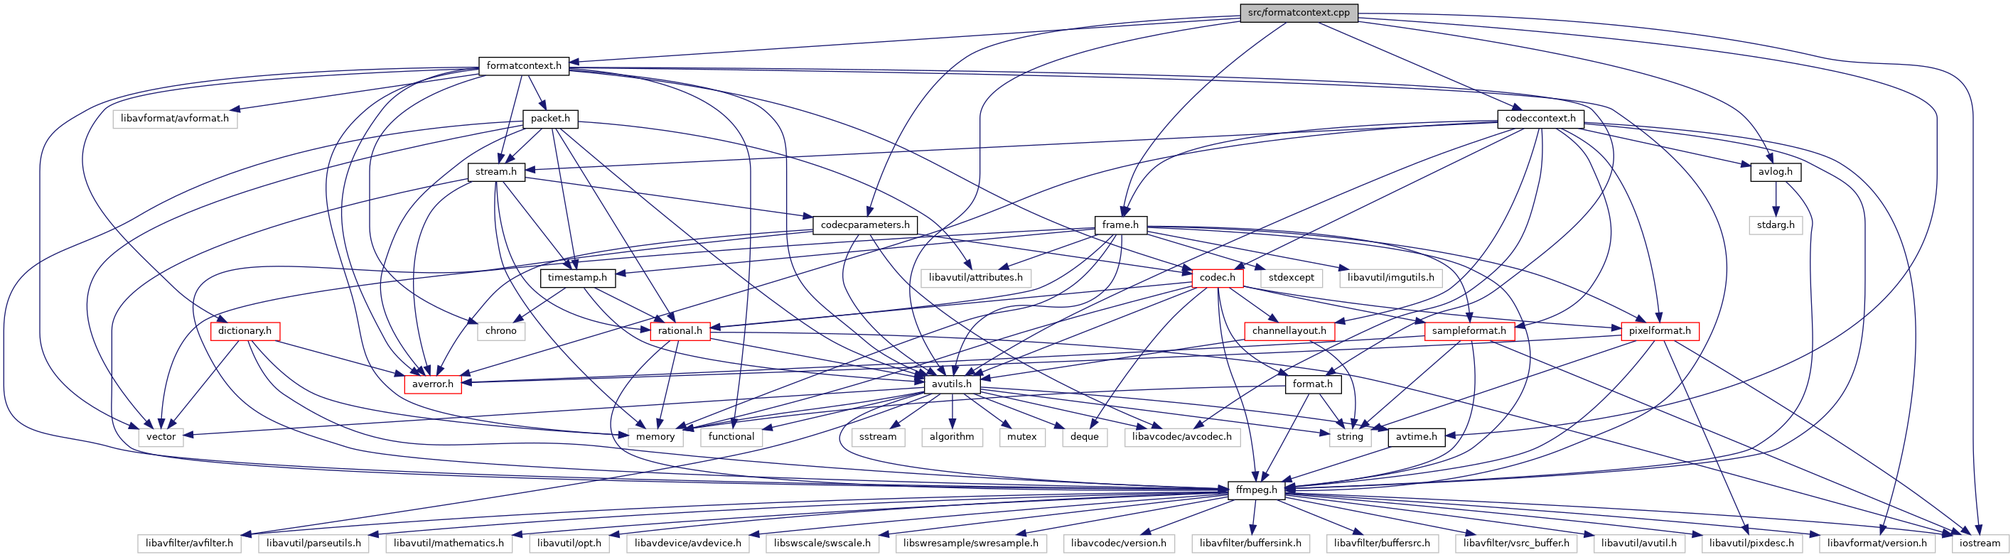
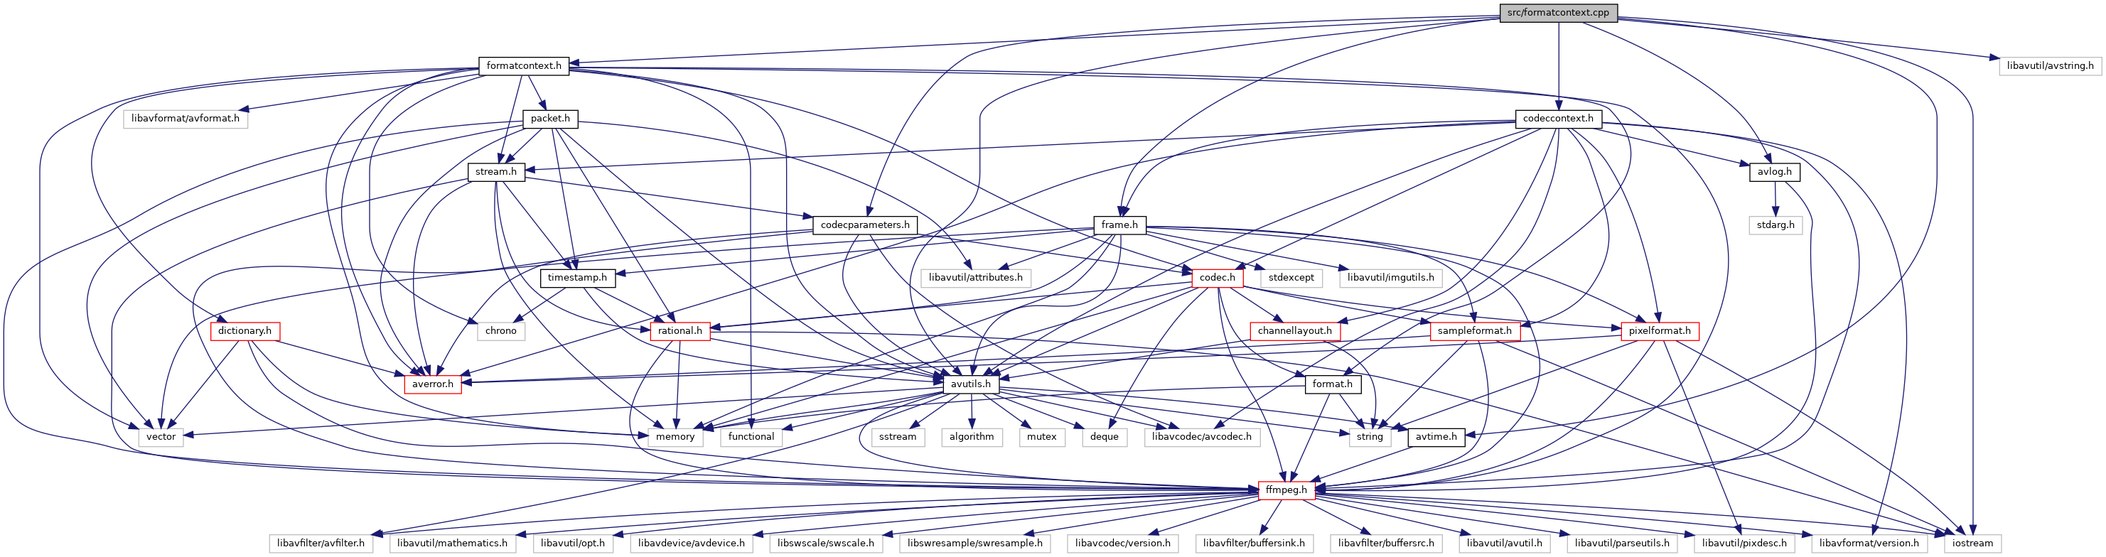
Update gh-pages to output generated at da338e3

diff --git a/formatcontext_8h_source.html b/formatcontext_8h_source.html
@@ -310,45 +310,45 @@ $(function() {
 <div class="ttc" id="aclassav_1_1DictionaryArray_html"><div class="ttname"><a href="classav_1_1DictionaryArray.html">av::DictionaryArray</a></div><div class="ttdoc">Array of Dictinaries wrapper.</div><div class="ttdef"><b>Definition:</b> dictionary.h:589</div></div>
 <div class="ttc" id="aclassav_1_1Dictionary_html"><div class="ttname"><a href="classav_1_1Dictionary.html">av::Dictionary</a></div><div class="ttdoc">Implements interface to access to the AVDictionary entity.</div><div class="ttdef"><b>Definition:</b> dictionary.h:31</div></div>
 <div class="ttc" id="aclassav_1_1FormatContext_html"><div class="ttname"><a href="classav_1_1FormatContext.html">av::FormatContext</a></div><div class="ttdef"><b>Definition:</b> formatcontext.h:54</div></div>
-<div class="ttc" id="aclassav_1_1FormatContext_html_a0714267bb2fcc7322c4ee5af64b9f3db"><div class="ttname"><a href="classav_1_1FormatContext.html#a0714267bb2fcc7322c4ee5af64b9f3db">av::FormatContext::setInterruptCallback</a></div><div class="ttdeci">void setInterruptCallback(const AvioInterruptCb &amp;cb)</div><div class="ttdef"><b>Definition:</b> formatcontext.cpp:94</div></div>
-<div class="ttc" id="aclassav_1_1FormatContext_html_a0e3e82a129ae62cc6ba7244fbba6d5c8"><div class="ttname"><a href="classav_1_1FormatContext.html#a0e3e82a129ae62cc6ba7244fbba6d5c8">av::FormatContext::~FormatContext</a></div><div class="ttdeci">~FormatContext()</div><div class="ttdef"><b>Definition:</b> formatcontext.cpp:80</div></div>
-<div class="ttc" id="aclassav_1_1FormatContext_html_a11c0f48f8949fd06f62bc6fa97fe85c7"><div class="ttname"><a href="classav_1_1FormatContext.html#a11c0f48f8949fd06f62bc6fa97fe85c7">av::FormatContext::close</a></div><div class="ttdeci">void close()</div><div class="ttdef"><b>Definition:</b> formatcontext.cpp:157</div></div>
-<div class="ttc" id="aclassav_1_1FormatContext_html_a191fbc751e7b38abd2d227fda99ebc92"><div class="ttname"><a href="classav_1_1FormatContext.html#a191fbc751e7b38abd2d227fda99ebc92">av::FormatContext::writeUncodedFrameDirect</a></div><div class="ttdeci">void writeUncodedFrameDirect(class VideoFrame &amp;frame, size_t streamIndex, OptionalErrorCode ec=throws())</div><div class="ttdef"><b>Definition:</b> formatcontext.cpp:796</div></div>
+<div class="ttc" id="aclassav_1_1FormatContext_html_a0714267bb2fcc7322c4ee5af64b9f3db"><div class="ttname"><a href="classav_1_1FormatContext.html#a0714267bb2fcc7322c4ee5af64b9f3db">av::FormatContext::setInterruptCallback</a></div><div class="ttdeci">void setInterruptCallback(const AvioInterruptCb &amp;cb)</div><div class="ttdef"><b>Definition:</b> formatcontext.cpp:101</div></div>
+<div class="ttc" id="aclassav_1_1FormatContext_html_a0e3e82a129ae62cc6ba7244fbba6d5c8"><div class="ttname"><a href="classav_1_1FormatContext.html#a0e3e82a129ae62cc6ba7244fbba6d5c8">av::FormatContext::~FormatContext</a></div><div class="ttdeci">~FormatContext()</div><div class="ttdef"><b>Definition:</b> formatcontext.cpp:87</div></div>
+<div class="ttc" id="aclassav_1_1FormatContext_html_a11c0f48f8949fd06f62bc6fa97fe85c7"><div class="ttname"><a href="classav_1_1FormatContext.html#a11c0f48f8949fd06f62bc6fa97fe85c7">av::FormatContext::close</a></div><div class="ttdeci">void close()</div><div class="ttdef"><b>Definition:</b> formatcontext.cpp:164</div></div>
+<div class="ttc" id="aclassav_1_1FormatContext_html_a191fbc751e7b38abd2d227fda99ebc92"><div class="ttname"><a href="classav_1_1FormatContext.html#a191fbc751e7b38abd2d227fda99ebc92">av::FormatContext::writeUncodedFrameDirect</a></div><div class="ttdeci">void writeUncodedFrameDirect(class VideoFrame &amp;frame, size_t streamIndex, OptionalErrorCode ec=throws())</div><div class="ttdef"><b>Definition:</b> formatcontext.cpp:803</div></div>
 <div class="ttc" id="aclassav_1_1FormatContext_html_a29d53f44c9ff479afdbac987c236d48e"><div class="ttname"><a href="classav_1_1FormatContext.html#a29d53f44c9ff479afdbac987c236d48e">av::FormatContext::openInput</a></div><div class="ttdeci">void openInput(CustomIO *io, Dictionary &amp;formatOptions, OptionalErrorCode ec=throws(), size_t internalBufferSize=CUSTOM_IO_DEFAULT_BUFFER_SIZE)</div><div class="ttdef"><b>Definition:</b> formatcontext.h:134</div></div>
-<div class="ttc" id="aclassav_1_1FormatContext_html_a2c7e3f50ac09ea7f85bf55f8993c5f9b"><div class="ttname"><a href="classav_1_1FormatContext.html#a2c7e3f50ac09ea7f85bf55f8993c5f9b">av::FormatContext::outputFormat</a></div><div class="ttdeci">OutputFormat outputFormat() const</div><div class="ttdef"><b>Definition:</b> formatcontext.cpp:131</div></div>
-<div class="ttc" id="aclassav_1_1FormatContext_html_a2d014cf9bd5ea21ff6aae6e3ec64ee80"><div class="ttname"><a href="classav_1_1FormatContext.html#a2d014cf9bd5ea21ff6aae6e3ec64ee80">av::FormatContext::setSocketTimeout</a></div><div class="ttdeci">void setSocketTimeout(int64_t timeout)</div><div class="ttdef"><b>Definition:</b> formatcontext.cpp:89</div></div>
+<div class="ttc" id="aclassav_1_1FormatContext_html_a2c7e3f50ac09ea7f85bf55f8993c5f9b"><div class="ttname"><a href="classav_1_1FormatContext.html#a2c7e3f50ac09ea7f85bf55f8993c5f9b">av::FormatContext::outputFormat</a></div><div class="ttdeci">OutputFormat outputFormat() const</div><div class="ttdef"><b>Definition:</b> formatcontext.cpp:138</div></div>
+<div class="ttc" id="aclassav_1_1FormatContext_html_a2d014cf9bd5ea21ff6aae6e3ec64ee80"><div class="ttname"><a href="classav_1_1FormatContext.html#a2d014cf9bd5ea21ff6aae6e3ec64ee80">av::FormatContext::setSocketTimeout</a></div><div class="ttdeci">void setSocketTimeout(int64_t timeout)</div><div class="ttdef"><b>Definition:</b> formatcontext.cpp:96</div></div>
 <div class="ttc" id="aclassav_1_1FormatContext_html_a3b74ed6c86f4671541aa6da1be5156ac"><div class="ttname"><a href="classav_1_1FormatContext.html#a3b74ed6c86f4671541aa6da1be5156ac">av::FormatContext::addStream</a></div><div class="ttdeci">Stream addStream(const class VideoEncoderContext &amp;encCtx, OptionalErrorCode ec=throws())</div></div>
 <div class="ttc" id="aclassav_1_1FormatContext_html_a3da7c83506bdd948785d445f0ad338ab"><div class="ttname"><a href="classav_1_1FormatContext.html#a3da7c83506bdd948785d445f0ad338ab">av::FormatContext::openInput</a></div><div class="ttdeci">void openInput(const std::string &amp;uri, OptionalErrorCode ec=throws())</div></div>
-<div class="ttc" id="aclassav_1_1FormatContext_html_a422a5ffa92d452d87aa58b459a7adbf5"><div class="ttname"><a href="classav_1_1FormatContext.html#a422a5ffa92d452d87aa58b459a7adbf5">av::FormatContext::addStream</a></div><div class="ttdeci">Stream addStream(const Codec &amp;codec, OptionalErrorCode ec=throws())</div><div class="ttdef"><b>Definition:</b> formatcontext.cpp:232</div></div>
+<div class="ttc" id="aclassav_1_1FormatContext_html_a422a5ffa92d452d87aa58b459a7adbf5"><div class="ttname"><a href="classav_1_1FormatContext.html#a422a5ffa92d452d87aa58b459a7adbf5">av::FormatContext::addStream</a></div><div class="ttdeci">Stream addStream(const Codec &amp;codec, OptionalErrorCode ec=throws())</div><div class="ttdef"><b>Definition:</b> formatcontext.cpp:239</div></div>
 <div class="ttc" id="aclassav_1_1FormatContext_html_a42b4db6d7c3285ab2e64a3b1f810c8fd"><div class="ttname"><a href="classav_1_1FormatContext.html#a42b4db6d7c3285ab2e64a3b1f810c8fd">av::FormatContext::openInput</a></div><div class="ttdeci">void openInput(CustomIO *io, Dictionary &amp;&amp;formatOptions, OptionalErrorCode ec=throws(), size_t internalBufferSize=CUSTOM_IO_DEFAULT_BUFFER_SIZE)</div><div class="ttdef"><b>Definition:</b> formatcontext.h:141</div></div>
-<div class="ttc" id="aclassav_1_1FormatContext_html_a59eba7573f994bb02f3122da75d4724e"><div class="ttname"><a href="classav_1_1FormatContext.html#a59eba7573f994bb02f3122da75d4724e">av::FormatContext::writeUncodedFrame</a></div><div class="ttdeci">void writeUncodedFrame(class VideoFrame &amp;frame, size_t streamIndex, OptionalErrorCode ec=throws())</div><div class="ttdef"><b>Definition:</b> formatcontext.cpp:791</div></div>
-<div class="ttc" id="aclassav_1_1FormatContext_html_a5f7274a21999785b7eb06a639b453c69"><div class="ttname"><a href="classav_1_1FormatContext.html#a5f7274a21999785b7eb06a639b453c69">av::FormatContext::inputFormat</a></div><div class="ttdeci">InputFormat inputFormat() const</div><div class="ttdef"><b>Definition:</b> formatcontext.cpp:123</div></div>
-<div class="ttc" id="aclassav_1_1FormatContext_html_a6af9f2a01dbd57b89abf1f63a098cf28"><div class="ttname"><a href="classav_1_1FormatContext.html#a6af9f2a01dbd57b89abf1f63a098cf28">av::FormatContext::writeTrailer</a></div><div class="ttdeci">void writeTrailer(OptionalErrorCode ec=throws())</div><div class="ttdef"><b>Definition:</b> formatcontext.cpp:915</div></div>
-<div class="ttc" id="aclassav_1_1FormatContext_html_a78e7bd9f63b6f0c0cfee7dec3cc71137"><div class="ttname"><a href="classav_1_1FormatContext.html#a78e7bd9f63b6f0c0cfee7dec3cc71137">av::FormatContext::writeHeader</a></div><div class="ttdeci">void writeHeader(OptionalErrorCode ec=throws())</div><div class="ttdef"><b>Definition:</b> formatcontext.cpp:686</div></div>
+<div class="ttc" id="aclassav_1_1FormatContext_html_a59eba7573f994bb02f3122da75d4724e"><div class="ttname"><a href="classav_1_1FormatContext.html#a59eba7573f994bb02f3122da75d4724e">av::FormatContext::writeUncodedFrame</a></div><div class="ttdeci">void writeUncodedFrame(class VideoFrame &amp;frame, size_t streamIndex, OptionalErrorCode ec=throws())</div><div class="ttdef"><b>Definition:</b> formatcontext.cpp:798</div></div>
+<div class="ttc" id="aclassav_1_1FormatContext_html_a5f7274a21999785b7eb06a639b453c69"><div class="ttname"><a href="classav_1_1FormatContext.html#a5f7274a21999785b7eb06a639b453c69">av::FormatContext::inputFormat</a></div><div class="ttdeci">InputFormat inputFormat() const</div><div class="ttdef"><b>Definition:</b> formatcontext.cpp:130</div></div>
+<div class="ttc" id="aclassav_1_1FormatContext_html_a6af9f2a01dbd57b89abf1f63a098cf28"><div class="ttname"><a href="classav_1_1FormatContext.html#a6af9f2a01dbd57b89abf1f63a098cf28">av::FormatContext::writeTrailer</a></div><div class="ttdeci">void writeTrailer(OptionalErrorCode ec=throws())</div><div class="ttdef"><b>Definition:</b> formatcontext.cpp:922</div></div>
+<div class="ttc" id="aclassav_1_1FormatContext_html_a78e7bd9f63b6f0c0cfee7dec3cc71137"><div class="ttname"><a href="classav_1_1FormatContext.html#a78e7bd9f63b6f0c0cfee7dec3cc71137">av::FormatContext::writeHeader</a></div><div class="ttdeci">void writeHeader(OptionalErrorCode ec=throws())</div><div class="ttdef"><b>Definition:</b> formatcontext.cpp:693</div></div>
 <div class="ttc" id="aclassav_1_1FormatContext_html_a7a18fe8e3fe5a0c7b0c0cc5e88cc8400"><div class="ttname"><a href="classav_1_1FormatContext.html#a7a18fe8e3fe5a0c7b0c0cc5e88cc8400">av::FormatContext::openOutput</a></div><div class="ttdeci">void openOutput(const std::string &amp;uri, OptionalErrorCode ec=throws())</div></div>
-<div class="ttc" id="aclassav_1_1FormatContext_html_a7c3b61f33c93fe073e58d121f21093b4"><div class="ttname"><a href="classav_1_1FormatContext.html#a7c3b61f33c93fe073e58d121f21093b4">av::FormatContext::duration</a></div><div class="ttdeci">Timestamp duration() const noexcept</div><div class="ttdef"><b>Definition:</b> formatcontext.cpp:370</div></div>
-<div class="ttc" id="aclassav_1_1FormatContext_html_a85d4f05b50dcb1b46a2fe5fac3e583c6"><div class="ttname"><a href="classav_1_1FormatContext.html#a85d4f05b50dcb1b46a2fe5fac3e583c6">av::FormatContext::startTime</a></div><div class="ttdeci">Timestamp startTime() const noexcept</div><div class="ttdef"><b>Definition:</b> formatcontext.cpp:334</div></div>
-<div class="ttc" id="aclassav_1_1FormatContext_html_a8755a185e2888a382fa9aa8b84e94f56"><div class="ttname"><a href="classav_1_1FormatContext.html#a8755a185e2888a382fa9aa8b84e94f56">av::FormatContext::isOpened</a></div><div class="ttdeci">bool isOpened() const</div><div class="ttdef"><b>Definition:</b> formatcontext.cpp:144</div></div>
+<div class="ttc" id="aclassav_1_1FormatContext_html_a7c3b61f33c93fe073e58d121f21093b4"><div class="ttname"><a href="classav_1_1FormatContext.html#a7c3b61f33c93fe073e58d121f21093b4">av::FormatContext::duration</a></div><div class="ttdeci">Timestamp duration() const noexcept</div><div class="ttdef"><b>Definition:</b> formatcontext.cpp:377</div></div>
+<div class="ttc" id="aclassav_1_1FormatContext_html_a85d4f05b50dcb1b46a2fe5fac3e583c6"><div class="ttname"><a href="classav_1_1FormatContext.html#a85d4f05b50dcb1b46a2fe5fac3e583c6">av::FormatContext::startTime</a></div><div class="ttdeci">Timestamp startTime() const noexcept</div><div class="ttdef"><b>Definition:</b> formatcontext.cpp:341</div></div>
+<div class="ttc" id="aclassav_1_1FormatContext_html_a8755a185e2888a382fa9aa8b84e94f56"><div class="ttname"><a href="classav_1_1FormatContext.html#a8755a185e2888a382fa9aa8b84e94f56">av::FormatContext::isOpened</a></div><div class="ttdeci">bool isOpened() const</div><div class="ttdef"><b>Definition:</b> formatcontext.cpp:151</div></div>
 <div class="ttc" id="aclassav_1_1FormatContext_html_a8db0445fb71c75f5a2717e6c95b3cff8"><div class="ttname"><a href="classav_1_1FormatContext.html#a8db0445fb71c75f5a2717e6c95b3cff8">av::FormatContext::CUSTOM_IO_DEFAULT_BUFFER_SIZE</a></div><div class="ttdeci">static constexpr size_t CUSTOM_IO_DEFAULT_BUFFER_SIZE</div><div class="ttdef"><b>Definition:</b> formatcontext.h:126</div></div>
-<div class="ttc" id="aclassav_1_1FormatContext_html_a9c48afd7450be63d29ccc387d3837271"><div class="ttname"><a href="classav_1_1FormatContext.html#a9c48afd7450be63d29ccc387d3837271">av::FormatContext::eventFlagsClear</a></div><div class="ttdeci">void eventFlagsClear(int flags) noexcept</div><div class="ttdef"><b>Definition:</b> formatcontext.cpp:357</div></div>
-<div class="ttc" id="aclassav_1_1FormatContext_html_aa3251d1a691d2abe2aaad6df084b18f6"><div class="ttname"><a href="classav_1_1FormatContext.html#aa3251d1a691d2abe2aaad6df084b18f6">av::FormatContext::substractStartTime</a></div><div class="ttdeci">void substractStartTime(bool enable)</div><div class="ttdef"><b>Definition:</b> formatcontext.cpp:364</div></div>
-<div class="ttc" id="aclassav_1_1FormatContext_html_aaf5d7ac4271585a673b765200fd4282e"><div class="ttname"><a href="classav_1_1FormatContext.html#aaf5d7ac4271585a673b765200fd4282e">av::FormatContext::eventFlags</a></div><div class="ttdeci">int eventFlags() const noexcept</div><div class="ttdoc">Flags to the user to detect events happening on the file.</div><div class="ttdef"><b>Definition:</b> formatcontext.cpp:343</div></div>
+<div class="ttc" id="aclassav_1_1FormatContext_html_a9c48afd7450be63d29ccc387d3837271"><div class="ttname"><a href="classav_1_1FormatContext.html#a9c48afd7450be63d29ccc387d3837271">av::FormatContext::eventFlagsClear</a></div><div class="ttdeci">void eventFlagsClear(int flags) noexcept</div><div class="ttdef"><b>Definition:</b> formatcontext.cpp:364</div></div>
+<div class="ttc" id="aclassav_1_1FormatContext_html_aa3251d1a691d2abe2aaad6df084b18f6"><div class="ttname"><a href="classav_1_1FormatContext.html#aa3251d1a691d2abe2aaad6df084b18f6">av::FormatContext::substractStartTime</a></div><div class="ttdeci">void substractStartTime(bool enable)</div><div class="ttdef"><b>Definition:</b> formatcontext.cpp:371</div></div>
+<div class="ttc" id="aclassav_1_1FormatContext_html_aaf5d7ac4271585a673b765200fd4282e"><div class="ttname"><a href="classav_1_1FormatContext.html#aaf5d7ac4271585a673b765200fd4282e">av::FormatContext::eventFlags</a></div><div class="ttdeci">int eventFlags() const noexcept</div><div class="ttdoc">Flags to the user to detect events happening on the file.</div><div class="ttdef"><b>Definition:</b> formatcontext.cpp:350</div></div>
 <div class="ttc" id="aclassav_1_1FormatContext_html_ab0265075d5b2903dd57ab90a273d2d2d"><div class="ttname"><a href="classav_1_1FormatContext.html#ab0265075d5b2903dd57ab90a273d2d2d">av::FormatContext::addStream</a></div><div class="ttdeci">Stream addStream(const class AudioEncoderContext &amp;encCtx, OptionalErrorCode ec=throws())</div></div>
 <div class="ttc" id="aclassav_1_1FormatContext_html_ab49293c8db878effc9fda3bc9b205e24"><div class="ttname"><a href="classav_1_1FormatContext.html#ab49293c8db878effc9fda3bc9b205e24">av::FormatContext::checkUncodedFrameWriting</a></div><div class="ttdeci">bool checkUncodedFrameWriting(size_t streamIndex, std::error_code &amp;ec) noexcept</div></div>
-<div class="ttc" id="aclassav_1_1FormatContext_html_ab59c2c249f5764c18163261cec4faafb"><div class="ttname"><a href="classav_1_1FormatContext.html#ab59c2c249f5764c18163261cec4faafb">av::FormatContext::writePacket</a></div><div class="ttdeci">void writePacket(OptionalErrorCode ec=throws())</div><div class="ttdef"><b>Definition:</b> formatcontext.cpp:734</div></div>
-<div class="ttc" id="aclassav_1_1FormatContext_html_ab5e65d9e2d3da04e3cabf74a3f172952"><div class="ttname"><a href="classav_1_1FormatContext.html#ab5e65d9e2d3da04e3cabf74a3f172952">av::FormatContext::isOutput</a></div><div class="ttdeci">bool isOutput() const</div><div class="ttdef"><b>Definition:</b> formatcontext.cpp:139</div></div>
+<div class="ttc" id="aclassav_1_1FormatContext_html_ab59c2c249f5764c18163261cec4faafb"><div class="ttname"><a href="classav_1_1FormatContext.html#ab59c2c249f5764c18163261cec4faafb">av::FormatContext::writePacket</a></div><div class="ttdeci">void writePacket(OptionalErrorCode ec=throws())</div><div class="ttdef"><b>Definition:</b> formatcontext.cpp:741</div></div>
+<div class="ttc" id="aclassav_1_1FormatContext_html_ab5e65d9e2d3da04e3cabf74a3f172952"><div class="ttname"><a href="classav_1_1FormatContext.html#ab5e65d9e2d3da04e3cabf74a3f172952">av::FormatContext::isOutput</a></div><div class="ttdeci">bool isOutput() const</div><div class="ttdef"><b>Definition:</b> formatcontext.cpp:146</div></div>
 <div class="ttc" id="aclassav_1_1FormatContext_html_abec766b34e377a0411f36469408feaa9"><div class="ttname"><a href="classav_1_1FormatContext.html#abec766b34e377a0411f36469408feaa9">av::FormatContext::openOutput</a></div><div class="ttdeci">void openOutput(const std::string &amp;uri, Dictionary &amp;&amp;options, OptionalErrorCode ec=throws())</div></div>
-<div class="ttc" id="aclassav_1_1FormatContext_html_abfb964bc2c3896a62bafa8a74dab7401"><div class="ttname"><a href="classav_1_1FormatContext.html#abfb964bc2c3896a62bafa8a74dab7401">av::FormatContext::dump</a></div><div class="ttdeci">void dump() const</div><div class="ttdef"><b>Definition:</b> formatcontext.cpp:196</div></div>
-<div class="ttc" id="aclassav_1_1FormatContext_html_ac002e8f84df14b812a551dbecb605b09"><div class="ttname"><a href="classav_1_1FormatContext.html#ac002e8f84df14b812a551dbecb605b09">av::FormatContext::flush</a></div><div class="ttdeci">void flush()</div><div class="ttdef"><b>Definition:</b> formatcontext.cpp:149</div></div>
-<div class="ttc" id="aclassav_1_1FormatContext_html_ac5e260497cc8d3b5ac41363e94f3754b"><div class="ttname"><a href="classav_1_1FormatContext.html#ac5e260497cc8d3b5ac41363e94f3754b">av::FormatContext::setFormat</a></div><div class="ttdeci">void setFormat(const InputFormat &amp;format)</div><div class="ttdef"><b>Definition:</b> formatcontext.cpp:99</div></div>
-<div class="ttc" id="aclassav_1_1FormatContext_html_ada3b9d58b8890a9b962607bd26aa4add"><div class="ttname"><a href="classav_1_1FormatContext.html#ada3b9d58b8890a9b962607bd26aa4add">av::FormatContext::findStreamInfo</a></div><div class="ttdeci">void findStreamInfo(OptionalErrorCode ec=throws())</div><div class="ttdef"><b>Definition:</b> formatcontext.cpp:477</div></div>
-<div class="ttc" id="aclassav_1_1FormatContext_html_adac43996ae12ae7ccf495cf667273482"><div class="ttname"><a href="classav_1_1FormatContext.html#adac43996ae12ae7ccf495cf667273482">av::FormatContext::FormatContext</a></div><div class="ttdeci">FormatContext()</div><div class="ttdef"><b>Definition:</b> formatcontext.cpp:74</div></div>
-<div class="ttc" id="aclassav_1_1FormatContext_html_ae15a624cd73f925ead595152f12f0864"><div class="ttname"><a href="classav_1_1FormatContext.html#ae15a624cd73f925ead595152f12f0864">av::FormatContext::writePacketDirect</a></div><div class="ttdeci">void writePacketDirect(OptionalErrorCode ec=throws())</div><div class="ttdef"><b>Definition:</b> formatcontext.cpp:744</div></div>
-<div class="ttc" id="aclassav_1_1FormatContext_html_ae1cbc211d59fd9ff89a7822a60252c19"><div class="ttname"><a href="classav_1_1FormatContext.html#ae1cbc211d59fd9ff89a7822a60252c19">av::FormatContext::seekable</a></div><div class="ttdeci">bool seekable() const noexcept</div><div class="ttdef"><b>Definition:</b> formatcontext.cpp:292</div></div>
-<div class="ttc" id="aclassav_1_1FormatContext_html_ae543d5086d3f600444e5cd49739ba9b6"><div class="ttname"><a href="classav_1_1FormatContext.html#ae543d5086d3f600444e5cd49739ba9b6">av::FormatContext::seek</a></div><div class="ttdeci">void seek(const Timestamp &amp;timestamp, OptionalErrorCode ec=throws())</div><div class="ttdef"><b>Definition:</b> formatcontext.cpp:300</div></div>
-<div class="ttc" id="aclassav_1_1FormatContext_html_ae7a6110ce74114766706d54897afa4f3"><div class="ttname"><a href="classav_1_1FormatContext.html#ae7a6110ce74114766706d54897afa4f3">av::FormatContext::streamsCount</a></div><div class="ttdeci">size_t streamsCount() const</div><div class="ttdef"><b>Definition:</b> formatcontext.cpp:204</div></div>
-<div class="ttc" id="aclassav_1_1FormatContext_html_ae87b8ad75c41b8d00bc8a6c4ab043ec1"><div class="ttname"><a href="classav_1_1FormatContext.html#ae87b8ad75c41b8d00bc8a6c4ab043ec1">av::FormatContext::stream</a></div><div class="ttdeci">Stream stream(size_t idx)</div><div class="ttdef"><b>Definition:</b> formatcontext.cpp:209</div></div>
-<div class="ttc" id="aclassav_1_1FormatContext_html_aef8942fbbac9199885c44af3e0dc891a"><div class="ttname"><a href="classav_1_1FormatContext.html#aef8942fbbac9199885c44af3e0dc891a">av::FormatContext::readPacket</a></div><div class="ttdeci">Packet readPacket(OptionalErrorCode ec=throws())</div><div class="ttdef"><b>Definition:</b> formatcontext.cpp:499</div></div>
+<div class="ttc" id="aclassav_1_1FormatContext_html_abfb964bc2c3896a62bafa8a74dab7401"><div class="ttname"><a href="classav_1_1FormatContext.html#abfb964bc2c3896a62bafa8a74dab7401">av::FormatContext::dump</a></div><div class="ttdeci">void dump() const</div><div class="ttdef"><b>Definition:</b> formatcontext.cpp:203</div></div>
+<div class="ttc" id="aclassav_1_1FormatContext_html_ac002e8f84df14b812a551dbecb605b09"><div class="ttname"><a href="classav_1_1FormatContext.html#ac002e8f84df14b812a551dbecb605b09">av::FormatContext::flush</a></div><div class="ttdeci">void flush()</div><div class="ttdef"><b>Definition:</b> formatcontext.cpp:156</div></div>
+<div class="ttc" id="aclassav_1_1FormatContext_html_ac5e260497cc8d3b5ac41363e94f3754b"><div class="ttname"><a href="classav_1_1FormatContext.html#ac5e260497cc8d3b5ac41363e94f3754b">av::FormatContext::setFormat</a></div><div class="ttdeci">void setFormat(const InputFormat &amp;format)</div><div class="ttdef"><b>Definition:</b> formatcontext.cpp:106</div></div>
+<div class="ttc" id="aclassav_1_1FormatContext_html_ada3b9d58b8890a9b962607bd26aa4add"><div class="ttname"><a href="classav_1_1FormatContext.html#ada3b9d58b8890a9b962607bd26aa4add">av::FormatContext::findStreamInfo</a></div><div class="ttdeci">void findStreamInfo(OptionalErrorCode ec=throws())</div><div class="ttdef"><b>Definition:</b> formatcontext.cpp:484</div></div>
+<div class="ttc" id="aclassav_1_1FormatContext_html_adac43996ae12ae7ccf495cf667273482"><div class="ttname"><a href="classav_1_1FormatContext.html#adac43996ae12ae7ccf495cf667273482">av::FormatContext::FormatContext</a></div><div class="ttdeci">FormatContext()</div><div class="ttdef"><b>Definition:</b> formatcontext.cpp:81</div></div>
+<div class="ttc" id="aclassav_1_1FormatContext_html_ae15a624cd73f925ead595152f12f0864"><div class="ttname"><a href="classav_1_1FormatContext.html#ae15a624cd73f925ead595152f12f0864">av::FormatContext::writePacketDirect</a></div><div class="ttdeci">void writePacketDirect(OptionalErrorCode ec=throws())</div><div class="ttdef"><b>Definition:</b> formatcontext.cpp:751</div></div>
+<div class="ttc" id="aclassav_1_1FormatContext_html_ae1cbc211d59fd9ff89a7822a60252c19"><div class="ttname"><a href="classav_1_1FormatContext.html#ae1cbc211d59fd9ff89a7822a60252c19">av::FormatContext::seekable</a></div><div class="ttdeci">bool seekable() const noexcept</div><div class="ttdef"><b>Definition:</b> formatcontext.cpp:299</div></div>
+<div class="ttc" id="aclassav_1_1FormatContext_html_ae543d5086d3f600444e5cd49739ba9b6"><div class="ttname"><a href="classav_1_1FormatContext.html#ae543d5086d3f600444e5cd49739ba9b6">av::FormatContext::seek</a></div><div class="ttdeci">void seek(const Timestamp &amp;timestamp, OptionalErrorCode ec=throws())</div><div class="ttdef"><b>Definition:</b> formatcontext.cpp:307</div></div>
+<div class="ttc" id="aclassav_1_1FormatContext_html_ae7a6110ce74114766706d54897afa4f3"><div class="ttname"><a href="classav_1_1FormatContext.html#ae7a6110ce74114766706d54897afa4f3">av::FormatContext::streamsCount</a></div><div class="ttdeci">size_t streamsCount() const</div><div class="ttdef"><b>Definition:</b> formatcontext.cpp:211</div></div>
+<div class="ttc" id="aclassav_1_1FormatContext_html_ae87b8ad75c41b8d00bc8a6c4ab043ec1"><div class="ttname"><a href="classav_1_1FormatContext.html#ae87b8ad75c41b8d00bc8a6c4ab043ec1">av::FormatContext::stream</a></div><div class="ttdeci">Stream stream(size_t idx)</div><div class="ttdef"><b>Definition:</b> formatcontext.cpp:216</div></div>
+<div class="ttc" id="aclassav_1_1FormatContext_html_aef8942fbbac9199885c44af3e0dc891a"><div class="ttname"><a href="classav_1_1FormatContext.html#aef8942fbbac9199885c44af3e0dc891a">av::FormatContext::readPacket</a></div><div class="ttdeci">Packet readPacket(OptionalErrorCode ec=throws())</div><div class="ttdef"><b>Definition:</b> formatcontext.cpp:506</div></div>
 <div class="ttc" id="aclassav_1_1FormatContext_html_afc53411eb7daf7805d7b8a3e730a2aea"><div class="ttname"><a href="classav_1_1FormatContext.html#afc53411eb7daf7805d7b8a3e730a2aea">av::FormatContext::openOutput</a></div><div class="ttdeci">void openOutput(const std::string &amp;uri, Dictionary &amp;options, OptionalErrorCode ec=throws())</div></div>
 <div class="ttc" id="aclassav_1_1InputFormat_html"><div class="ttname"><a href="classav_1_1InputFormat.html">av::InputFormat</a></div><div class="ttdef"><b>Definition:</b> format.h:72</div></div>
 <div class="ttc" id="aclassav_1_1OptionalErrorCode_html"><div class="ttname"><a href="classav_1_1OptionalErrorCode.html">av::OptionalErrorCode</a></div><div class="ttdef"><b>Definition:</b> averror.h:64</div></div>

diff --git a/formatcontext_8cpp.html b/formatcontext_8cpp.html
@@ -81,61 +81,62 @@ $(function() {
 <code>#include &quot;<a class="el" href="formatcontext_8h_source.html">formatcontext.h</a>&quot;</code><br />
 <code>#include &quot;<a class="el" href="codeccontext_8h_source.html">codeccontext.h</a>&quot;</code><br />
 <code>#include &quot;<a class="el" href="codecparameters_8h_source.html">codecparameters.h</a>&quot;</code><br />
+<code>#include &lt;libavutil/avstring.h&gt;</code><br />
 </div><div class="textblock"><div class="dynheader">
 Include dependency graph for formatcontext.cpp:</div>
 <div class="dyncontent">
 <div class="center"><img src="formatcontext_8cpp__incl.png" border="0" usemap="#asrc_2formatcontext_8cpp" alt=""/></div>
 <map name="asrc_2formatcontext_8cpp" id="asrc_2formatcontext_8cpp">
-<area shape="rect" title=" " alt="" coords="1745,5,1911,32"/>
-<area shape="rect" title=" " alt="" coords="2747,752,2827,779"/>
-<area shape="rect" href="avutils_8h.html" title=" " alt="" coords="1301,528,1379,555"/>
-<area shape="rect" href="avtime_8h.html" title=" " alt="" coords="1953,603,2033,629"/>
-<area shape="rect" href="frame_8h.html" title=" " alt="" coords="1541,304,1614,331"/>
-<area shape="rect" href="avlog_8h.html" title=" " alt="" coords="2463,229,2534,256"/>
+<area shape="rect" title=" " alt="" coords="2111,5,2276,32"/>
+<area shape="rect" title=" " alt="" coords="2736,752,2816,779"/>
+<area shape="rect" href="avutils_8h.html" title=" " alt="" coords="1327,528,1406,555"/>
+<area shape="rect" href="avtime_8h.html" title=" " alt="" coords="1981,603,2061,629"/>
+<area shape="rect" href="frame_8h.html" title=" " alt="" coords="1539,304,1613,331"/>
+<area shape="rect" href="avlog_8h.html" title=" " alt="" coords="2462,229,2533,256"/>
 <area shape="rect" href="formatcontext_8h.html" title=" " alt="" coords="674,80,801,107"/>
 <area shape="rect" href="codecparameters_8h.html" title=" " alt="" coords="1144,304,1291,331"/>
-<area shape="rect" href="codeccontext_8h.html" title=" " alt="" coords="2107,155,2229,181"/>
-<area shape="rect" title=" " alt="" coords="1871,603,1929,629"/>
+<area shape="rect" href="codeccontext_8h.html" title=" " alt="" coords="2133,155,2254,181"/>
+<area shape="rect" title=" " alt="" coords="2813,80,2957,107"/>
+<area shape="rect" title=" " alt="" coords="1899,603,1957,629"/>
 <area shape="rect" title=" " alt="" coords="195,603,258,629"/>
-<area shape="rect" title=" " alt="" coords="1495,603,1558,629"/>
-<area shape="rect" title=" " alt="" coords="884,603,961,629"/>
-<area shape="rect" title=" " alt="" coords="1407,603,1471,629"/>
-<area shape="rect" title=" " alt="" coords="1199,603,1273,629"/>
-<area shape="rect" title=" " alt="" coords="1297,603,1383,629"/>
-<area shape="rect" title=" " alt="" coords="986,603,1073,629"/>
-<area shape="rect" href="ffmpeg_8h.html" title=" " alt="" coords="1728,677,1808,704"/>
-<area shape="rect" title=" " alt="" coords="194,752,339,779"/>
-<area shape="rect" title=" " alt="" coords="1583,603,1745,629"/>
-<area shape="rect" title=" " alt="" coords="2243,752,2371,779"/>
-<area shape="rect" title=" " alt="" coords="364,752,519,779"/>
-<area shape="rect" title=" " alt="" coords="543,752,721,779"/>
-<area shape="rect" title=" " alt="" coords="745,752,857,779"/>
-<area shape="rect" title=" " alt="" coords="2395,752,2536,779"/>
-<area shape="rect" title=" " alt="" coords="882,752,1054,779"/>
-<area shape="rect" title=" " alt="" coords="1078,752,1237,779"/>
-<area shape="rect" title=" " alt="" coords="1261,752,1473,779"/>
-<area shape="rect" title=" " alt="" coords="2560,752,2723,779"/>
-<area shape="rect" title=" " alt="" coords="1497,752,1653,779"/>
-<area shape="rect" title=" " alt="" coords="1677,752,1843,779"/>
-<area shape="rect" title=" " alt="" coords="1867,752,2024,779"/>
-<area shape="rect" title=" " alt="" coords="2048,752,2219,779"/>
+<area shape="rect" title=" " alt="" coords="1523,603,1586,629"/>
+<area shape="rect" title=" " alt="" coords="912,603,989,629"/>
+<area shape="rect" title=" " alt="" coords="1435,603,1499,629"/>
+<area shape="rect" title=" " alt="" coords="1227,603,1301,629"/>
+<area shape="rect" title=" " alt="" coords="1325,603,1411,629"/>
+<area shape="rect" title=" " alt="" coords="1014,603,1101,629"/>
+<area shape="rect" href="ffmpeg_8h.html" title=" " alt="" coords="1771,677,1851,704"/>
+<area shape="rect" title=" " alt="" coords="379,752,525,779"/>
+<area shape="rect" title=" " alt="" coords="1611,603,1773,629"/>
+<area shape="rect" title=" " alt="" coords="2053,752,2181,779"/>
+<area shape="rect" title=" " alt="" coords="2205,752,2360,779"/>
+<area shape="rect" title=" " alt="" coords="549,752,726,779"/>
+<area shape="rect" title=" " alt="" coords="751,752,863,779"/>
+<area shape="rect" title=" " alt="" coords="2384,752,2525,779"/>
+<area shape="rect" title=" " alt="" coords="887,752,1059,779"/>
+<area shape="rect" title=" " alt="" coords="1083,752,1242,779"/>
+<area shape="rect" title=" " alt="" coords="1266,752,1478,779"/>
+<area shape="rect" title=" " alt="" coords="2549,752,2712,779"/>
+<area shape="rect" title=" " alt="" coords="1502,752,1658,779"/>
+<area shape="rect" title=" " alt="" coords="1683,752,1848,779"/>
+<area shape="rect" title=" " alt="" coords="1872,752,2029,779"/>
 <area shape="rect" title=" " alt="" coords="1774,379,1861,405"/>
 <area shape="rect" href="rational_8h.html" title=" " alt="" coords="915,453,999,480"/>
 <area shape="rect" href="timestamp_8h.html" title=" " alt="" coords="761,379,866,405"/>
 <area shape="rect" href="pixelformat_8h.html" title=" " alt="" coords="2281,453,2391,480"/>
-<area shape="rect" href="sampleformat_8h.html" title=" " alt="" coords="2005,453,2131,480"/>
+<area shape="rect" href="sampleformat_8h.html" title=" " alt="" coords="2013,453,2139,480"/>
 <area shape="rect" title=" " alt="" coords="1885,379,2029,405"/>
 <area shape="rect" title=" " alt="" coords="1296,379,1451,405"/>
 <area shape="rect" title=" " alt="" coords="672,453,739,480"/>
 <area shape="rect" href="averror_8h.html" title=" " alt="" coords="569,528,649,555"/>
 <area shape="rect" title=" " alt="" coords="2461,304,2536,331"/>
-<area shape="rect" href="format_8h.html" title=" " alt="" coords="1809,528,1887,555"/>
+<area shape="rect" href="format_8h.html" title=" " alt="" coords="1837,528,1915,555"/>
 <area shape="rect" href="stream_8h.html" title=" " alt="" coords="659,229,739,256"/>
 <area shape="rect" href="codec_8h.html" title=" " alt="" coords="1677,379,1749,405"/>
 <area shape="rect" href="packet_8h.html" title=" " alt="" coords="736,155,813,181"/>
 <area shape="rect" href="dictionary_8h.html" title=" " alt="" coords="297,453,394,480"/>
-<area shape="rect" title=" " alt="" coords="159,155,334,181"/>
-<area shape="rect" href="channellayout_8h.html" title=" " alt="" coords="1751,453,1878,480"/>
+<area shape="rect" title=" " alt="" coords="174,155,349,181"/>
+<area shape="rect" href="channellayout_8h.html" title=" " alt="" coords="1759,453,1886,480"/>
 </map>
 </div>
 </div><table class="memberdecls">
